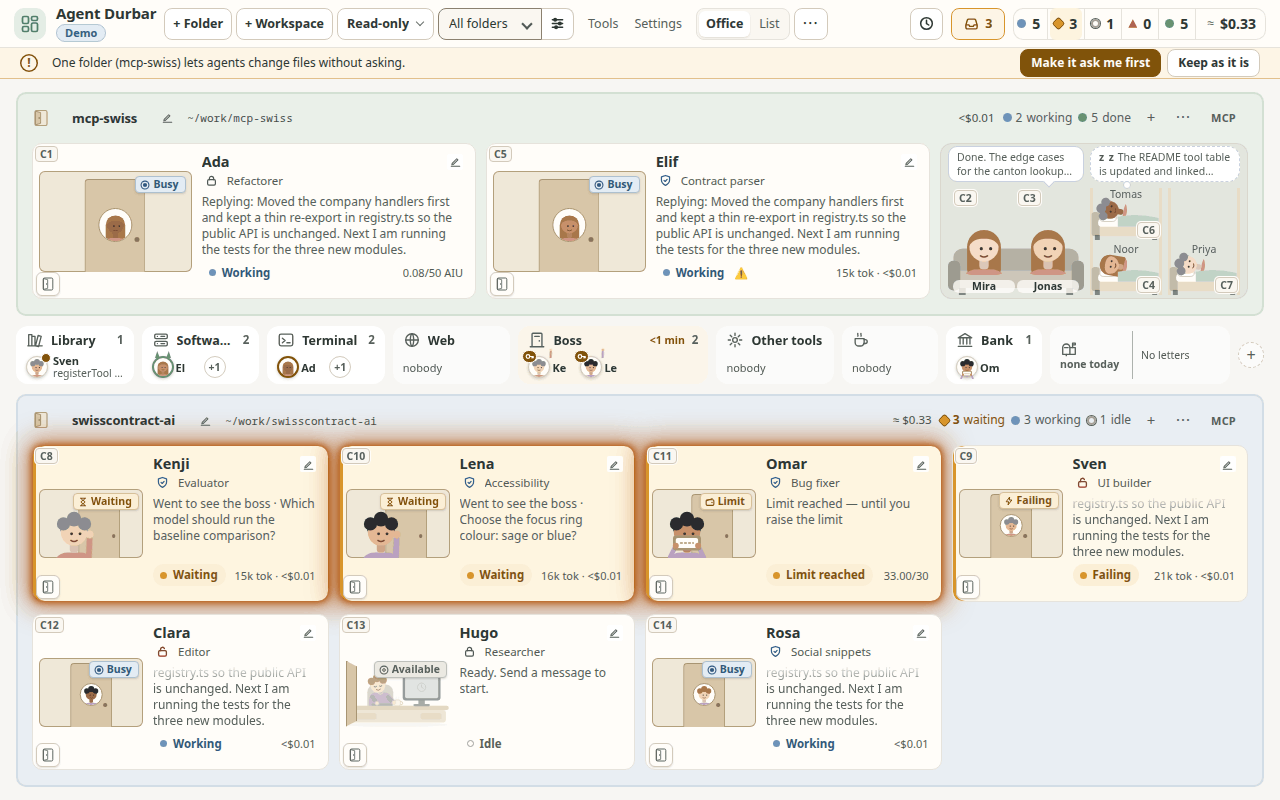
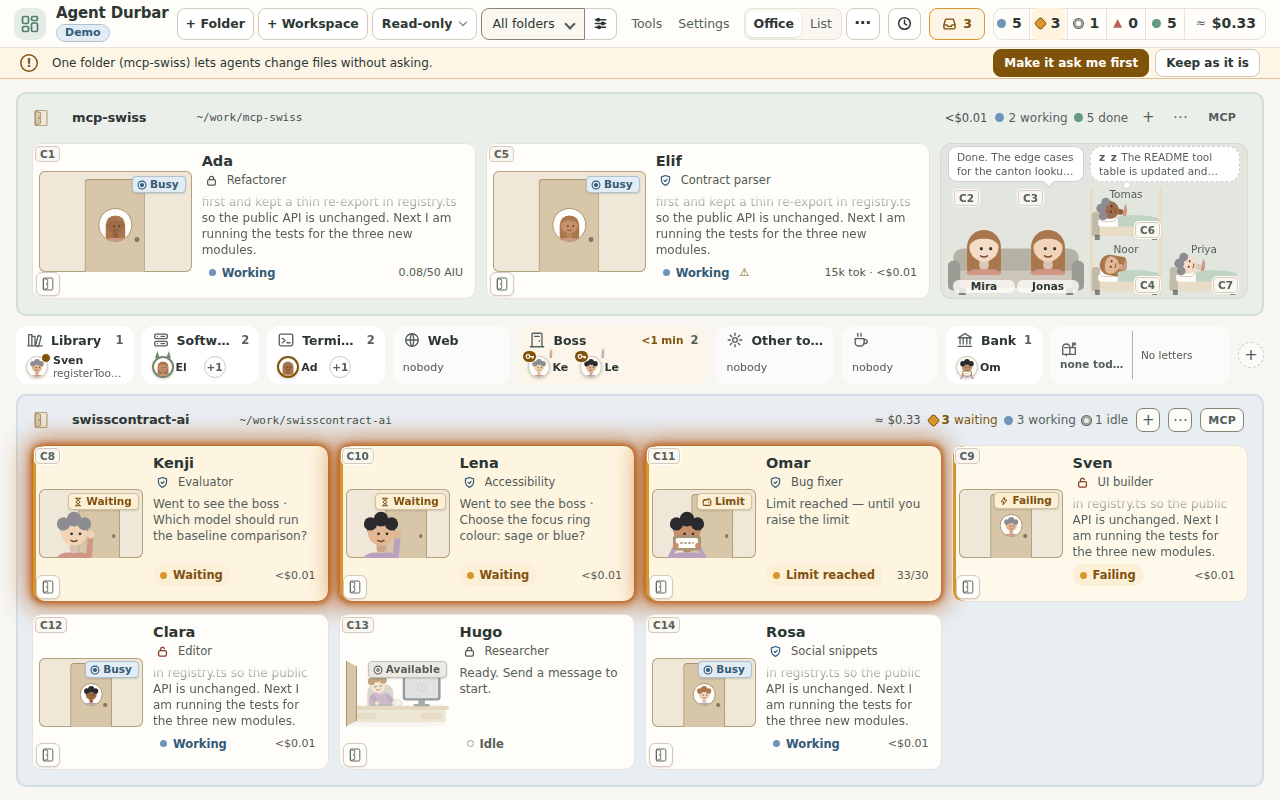
077: a sleeping crew character in the bed slot reads like the couch seat (issue #871)

diff --git a/scripts/check-crew.js b/scripts/check-crew.js
@@ -86,6 +86,17 @@ function faces() {
   return out;
 }
 
+/* issue 871 (FR-071), in the page: every sleeper in a nap bed with the boxes its parts must keep */
+function sleepers() {
+  const r = (e) => { if (!e) return null; const b = e.getBoundingClientRect(); return [b.x, b.y, b.x + b.width, b.y + b.height]; };
+  return [...document.querySelectorAll('#stage .lounge .desk.rest-old')].filter((d) => d.getClientRects().length).map((d) => {
+    const av = d.querySelector('.lg-av'), svg = av && av.querySelector('svg'), im = svg && svg.querySelector('image');
+    return { id: d.dataset.id, crew: d.classList.contains('crew-bed'), lying: !!(av && av.classList.contains('lying')), href: im ? im.getAttribute('href') : '', vb: svg ? (svg.getAttribute('viewBox') || '').split(/\s+/).map(Number) : [],
+      svg: r(svg), av: r(av), slot: r(d), bed: r(d.querySelector('.lg-bed')), name: r(d.querySelector('.lg-name')), chat: r(d.querySelector('.chatno')), lounge: r(d.closest('.lounge')), solo: !!d.closest('.lg-bunk.solo'),
+      ztop: +getComputedStyle(d.querySelector('.lg-blanket')).zIndex, zav: +getComputedStyle(av).zIndex || 0 };
+  });
+}
+
 /* FR-061, in the page: the opacity a node really shows at is its own times its ancestors' */
 function idleOpacity() {
   const eff = (e) => { let o = 1; for (; e && e.nodeType === 1; e = e.parentElement) o *= +getComputedStyle(e).opacity; return o; };
@@ -293,6 +304,51 @@ module.exports = async (ctx) => {
     console.log('[crew] 1920x1080 grown desks: largest shown width', Math.round(biggest), 'px, natural', C.BOX.w * C.PX_PER_UNIT);
     for (const im of imgs) sharpOk('1920x1080 grown', im, nat[im.href]);
     await ctx.shot(path.join(out, 'crew-office-1920x1080-grown.png'));
+  }
+
+  // issue 871 (FR-071): a sleeping crew character in the bed slot reads like the couch seat, at both sizes. One agent on the couch and a lone sleeper.
+  for (const [w, h] of [[1440, 900], [1280, 800]]) {
+    const tag = `${w}x${h} bed`;
+    await H.load({ w, h, query: { sim: '14', simrooms: '2', simhelpers: '0' }, ready: `document.querySelectorAll('#stage .desk[data-id]').length>=14&&document.getElementById('stage').dataset.fit` });
+    await useCrew();
+    for (const id of ['sim-2', 'sim-3']) {
+      const ev = (e) => H.js(`window.__durbarSimEmit(Object.assign({timestamp:Date.now()},${jsLiteral(Object.assign({ sessionId: id }, e))}))`);
+      await ev({ type: 'status', status: 'working', intent: 'Working' });
+      await ev({ type: 'output', final: true, text: 'Done. The edge cases are listed.' });
+      await ev({ type: 'status', status: 'idle' });
+    }
+    await H.js(`window.__durbarSimUi.readAll()`);
+    // sim-2 finished a moment ago (the couch), sim-3 half an hour ago (a bed)
+    await H.js(`(()=>{for(const [id,min] of [['sim-2',2],['sim-3',30]]){window.__durbarSimUi.agents().find(x=>x.id===id).lastEventAt=Date.now()-min*60000;}window.__durbarSimUi.render();})()`);
+    assert.ok(await H.until(`!!document.querySelector('#stage .lounge .desk.rest-old.crew-bed')&&!!document.querySelector('#stage .lounge .lg-av svg image')`, 6000), `${tag}: a crew sleeper is in a nap bed`);
+    await H.settle();
+    const list = await H.js(`(${sleepers.toString()})()`);
+    const lone = list.filter((x) => x.solo);
+    assert.ok(lone.length >= 1, `${tag}: a lone sleeper (a bunk with one bed) is on screen (${list.length} sleepers)`);
+    for (const x of lone) {
+      const where = `${tag} ${x.id}`, eps = 0.75, inside = (a, b) => a[0] >= b[0] - eps && a[1] >= b[1] - eps && a[2] <= b[2] + eps && a[3] <= b[3] + eps;
+      assert.ok(x.crew && !x.lying && x.href, `${where}: drawn with the crew picture, upright (${JSON.stringify({ crew: x.crew, lying: x.lying, href: x.href })})`);
+      assert.ok(inside(x.av, x.slot) && inside(x.slot, x.lounge), `${where}: the figure ${x.av.map(Math.round)} is inside its bed slot ${x.slot.map(Math.round)} and the lounge ${x.lounge.map(Math.round)}`);
+      // the face is not cut: the face box of the picture, mapped to the screen, is inside the visible figure
+      const m = /crew\/art\/([\w-]+)-(working|waiting|resting)\.webp/.exec(x.href), fb = C.faceBox(m[1], m[2]), [vx, vy, vw, vh] = x.vb, R = x.svg;
+      const sc = Math.min((R[2] - R[0]) / vw, (R[3] - R[1]) / vh), ox = R[0] + ((R[2] - R[0]) - vw * sc) / 2, oy = R[1] + ((R[3] - R[1]) - vh * sc) / 2;
+      const face = [ox + (fb[0] - vx) * sc, oy + (fb[1] - vy) * sc, ox + (fb[0] + fb[2] - vx) * sc, oy + (fb[1] + fb[3] - vy) * sc];
+      assert.ok(inside(face, x.av), `${where}: the face box ${face.map(Math.round)} is inside the visible figure ${x.av.map(Math.round)} (not cut)`);
+      // the name sits under the figure's face (the middle of the figure, like the couch's label), not on top of an empty column
+      assert.ok(x.name[1] >= face[3] - 1.5, `${where}: the name ${x.name.map(Math.round)} is under the face ${face.map(Math.round)}`);
+      assert.ok(x.name[1] >= x.slot[3] - 20 && x.name[3] <= x.slot[3] + eps, `${where}: the name is on the bed's foot line, not in the middle of the column (${x.name.map(Math.round)} in ${x.slot.map(Math.round)})`);
+      // the chat number does not cover the face (a seat of 30 px or less is smaller than the badge itself, as for the couch)
+      if (x.av[2] - x.av[0] >= 30) assert.ok(!hit(face, x.chat), `${where}: the chat number ${x.chat.map(Math.round)} does not cover the face ${face.map(Math.round)}`);
+      assert.ok(x.chat[0] <= x.slot[0] + 6 && x.chat[1] <= x.slot[1] + 6, `${where}: the chat number is on the top-left corner like the couch's (${x.chat.map(Math.round)})`);
+      // the bed is drawn at a sensible size and under the figure
+      assert.ok(x.bed[2] - x.bed[0] >= 60 && x.bed[3] - x.bed[1] >= 26, `${where}: the bed is ${Math.round(x.bed[2] - x.bed[0])}x${Math.round(x.bed[3] - x.bed[1])} px (at least 60x26)`);
+      assert.ok(inside(x.bed, x.slot), `${where}: the bed ${x.bed.map((n) => +n.toFixed(1))} is inside its slot ${x.slot.map((n) => +n.toFixed(1))}`);
+      assert.ok(x.av[3] > x.bed[1] && x.av[1] < x.bed[1], `${where}: the figure rests on the bed (figure ${x.av.map(Math.round)}, bed ${x.bed.map(Math.round)})`);
+      assert.ok(x.ztop > x.zav, `${where}: the blanket is drawn over the figure's lower edge`);
+      console.log(`[crew] ${tag}`, JSON.stringify({ figure: x.av.map(Math.round), bed: x.bed.map(Math.round), name: x.name.map(Math.round) }));
+    }
+    await H.clearToasts();
+    await ctx.shot(path.join(out, `crew-bed-${THEME_ID}-${w}x${h}.png`));
   }
 
   // FR-055: one picture removed from a copy of dist/: its character is drawn as the plain figure, the others keep their pictures

diff --git a/src/renderer/app.js b/src/renderer/app.js
@@ -1103,10 +1103,14 @@ function restHTML(x,i){
   const where=k==='recent'?'resting on the couch':'asleep on a nap bed';
   const lab=`${esc(a.name)}${chatNoWords(a)}${draftWords(a)}, ${esc(who)}, folder ${esc(roomOf(a).path)}, ${where}, ${st==='done'?'finished':'idle after its reply'}${said?' '+esc(said):''}: ${esc(line)}${/[.!?…]$/.test(line)?'':'.'} Open chat panel.`; /* every part escaped here */
   const peek=`<span class="peek" aria-hidden="true"><span class="pk-h"><b>${esc(a.name)}</b><span class="pk-role">${esc(who)}</span></span><span class="pk-st">${signsOn()?(g=>`<span class="dsign-tx" data-sign="${g.key}">${signIcon(g.icon)}${esc(g.word)}</span>`)(signOf(a,true)):SHUT_MARK+esc(stWord(a))}${ago?' · finished '+esc(ago):''} · ${where}</span><span class="pk-tx">${esc(shutReply(a,300))}</span></span>`;
+  const crewBed=k==='old'&&THEME.sceneKit()==='crew'; /* spec 077 FR-071: a sleeping crew character is the couch's head and shoulders, not a turned face */
+  const bedSvg=`<svg class="lg-bed" viewBox="0 0 44 24" preserveAspectRatio="none" aria-hidden="true" focusable="false"><rect class="bd-frame" x="1" y="10" width="42" height="11" rx="3"/><rect class="bd-head" x="1" y="3" width="5" height="18" rx="2"/><rect class="bd-mat" x="5" y="8" width="37" height="6" rx="2.5"/><rect class="bd-pil" x="6" y="5" width="10" height="5" rx="2.5"/><rect class="bd-leg" x="3" y="20" width="3" height="4"/><rect class="bd-leg" x="38" y="20" width="3" height="4"/></svg>`;
   const art=k==='recent'
     ?`<span class="lg-av"${THEME.sceneKit()==='crew'?' style="border-radius:0 0 30% 30%"':''}>${avatar(a,'seat')}</span>`
-    :`<svg class="lg-bed" viewBox="0 0 44 24" preserveAspectRatio="none" aria-hidden="true" focusable="false"><rect class="bd-frame" x="1" y="10" width="42" height="11" rx="3"/><rect class="bd-head" x="1" y="3" width="5" height="18" rx="2"/><rect class="bd-mat" x="5" y="8" width="37" height="6" rx="2.5"/><rect class="bd-pil" x="6" y="5" width="10" height="5" rx="2.5"/><rect class="bd-leg" x="3" y="20" width="3" height="4"/><rect class="bd-leg" x="38" y="20" width="3" height="4"/></svg><span class="lg-av lying">${avatar(a)}</span><svg class="lg-blanket" viewBox="0 0 44 24" preserveAspectRatio="none" aria-hidden="true" focusable="false"><path class="bd-blk" d="M17 6.5q12-3 25 1V14H17z"/></svg>`;
-  return `<button class="desk shut is-${st} rest-${k}${roll}" type="button" data-id="${esc(a.id)}" data-state="${st}" data-rest="${k}" aria-pressed="${ui.selected===a.id}" aria-label="${lab}"><span class="lg-sp">${chatNoHTML(a)}${draftHTML(a)}${art}<span class="name lg-name">${esc(a.name)}</span></span>${peek}</button>`;
+    :(crewBed
+      ?`${bedSvg}<span class="lg-av" style="border-radius:0 0 30% 30%">${avatar(a,'seat')}</span><svg class="lg-blanket" viewBox="0 0 44 24" preserveAspectRatio="none" aria-hidden="true" focusable="false"><path class="bd-blk" d="M3 9.5q20-4 39 0V15H3z"/></svg>`
+      :`${bedSvg}<span class="lg-av lying">${avatar(a)}</span><svg class="lg-blanket" viewBox="0 0 44 24" preserveAspectRatio="none" aria-hidden="true" focusable="false"><path class="bd-blk" d="M17 6.5q12-3 25 1V14H17z"/></svg>`);
+  return `<button class="desk shut is-${st} rest-${k}${crewBed?' crew-bed':''}${roll}" type="button" data-id="${esc(a.id)}" data-state="${st}" data-rest="${k}" aria-pressed="${ui.selected===a.id}" aria-label="${lab}"><span class="lg-sp">${chatNoHTML(a)}${draftHTML(a)}${art}<span class="name lg-name">${esc(a.name)}</span></span>${peek}</button>`;
 }
 /* FR-053: a room's resting agents, their couches and beds, and the corner's width (DurbarShutters.width, counted by the layout) */
 function shutGroup(r,rolled){
@@ -1140,7 +1144,7 @@ function shuttersHTML(r,rolled){
   const say=bubbleHTML('say',g.recent,g.sayW,seatX,x=>shutReply(x.a,160),'');
   const dream=bubbleHTML('dream',all,g.dreamW,i=>bedX(i),x=>shutReply(x.a,160),dreams);
   /* bunks: two beds to a column (the lower bunk first) */
-  const bunks=[];for(let i=0;i<g.shown.length;i+=2)bunks.push(`<span class="lg-bunk">${g.shown.slice(i,i+2).map(restHTML).join('')}</span>`);
+  const bunks=[];for(let i=0;i<g.shown.length;i+=2)bunks.push(`<span class="lg-bunk${i+1>=g.shown.length?' solo':''}">${g.shown.slice(i,i+2).map(restHTML).join('')}</span>`);
   const beds=bunks.join('')+(g.hidden.length?`<button class="more shut-more" type="button" data-more="${esc(g.key)}" aria-expanded="false" aria-label="Show ${g.hidden.length} more finished agents asleep in ${esc(r.name)}" title="${g.hidden.length} more asleep">+${g.hidden.length} asleep</button>`:'')+(g.fewer?`<button class="more shut-more fewer" type="button" data-more="${esc(g.key)}" aria-expanded="true" aria-label="Show fewer finished agents in ${esc(r.name)}">Fewer</button>`:'');
   const n=g.recent.length+g.old.length;
   return `<div class="lounge" data-key="${esc(g.key)}" style="--shw:${g.w}px" role="group" aria-label="${n} finished agent${n>1?'s':''} resting in ${esc(r.name)}"><div class="lg-bubs">${say}${g.couchW&&g.bedW?'<span class="lg-gap"></span>':''}${dream}</div><div class="lg-in">${couches?`<span class="lg-couches" style="flex-basis:${g.couchW}px">${couches}</span>`:''}${beds?`<span class="lg-beds" style="flex-basis:${g.bedW}px">${beds}</span>`:''}</div></div>`;

diff --git a/src/renderer/styles.css b/src/renderer/styles.css
@@ -2049,6 +2049,14 @@ body.simple #ctxMenu #compactBtn{display:flex!important} /* spec 005 FR-041: Tid
 /* issue 576: a sleeper's name is on the top line, where the chat number sits on the couch: the number goes to the bed's foot corner, beside the lying character, so the name stays whole */
 .stage .desk.shut.rest-old .chatno{left:auto;top:auto;right:2px;bottom:2px}
 .desk.shut.rest-old .lg-name{top:0;bottom:auto;background:transparent;font-weight:500;color:var(--ink-2)}
+/* spec 077 FR-071: a one-bed bunk has no posts; with Cheeky its slot is the whole column and the sleeper is the couch's head and shoulders (the same crop and size rule), the blanket over its lower edge, the name under it, the chat number on its top-left corner */
+.lg-bunk.solo{background:none}
+.stage .lg-bunk.solo>.desk.shut.crew-bed{flex:1 1 0;min-height:0}
+.desk.shut.crew-bed .lg-bed,.desk.shut.crew-bed .lg-blanket{height:min(45%,44px)}
+.desk.shut.rest-old.crew-bed .lg-av{position:absolute;left:50%;bottom:calc(min(45%,44px) * .42);height:min(56px,calc(100% - min(45%,44px) * .42 - 2px));aspect-ratio:1;transform:translateX(-50%);border-radius:50% 50% 30% 30%;overflow:hidden}
+.stage .desk.shut.rest-old.crew-bed .chatno{left:2px;top:2px;right:auto;bottom:auto}
+.desk.shut.rest-old.crew-bed .lg-name{top:auto;bottom:2px;background:color-mix(in srgb,var(--surface) 78%,transparent);font-weight:600;color:var(--ink)}
+@container lounge (max-height:99px){.desk.shut.rest-old.crew-bed .lg-av{bottom:13px;height:calc(100% - 13px)}}
 .lg-beds>.shut-more{width:52px;height:auto;padding:0 2px;font-size:10.5px;line-height:13px;flex:none;border-radius:10px;white-space:normal}
 /* the peek card: beside the lounge (left, or right when measured too close to the room's edge), never moving anything */
 .desk.shut .peek{display:none;position:absolute;right:calc(100% + 6px);top:0;z-index:30;width:300px;flex-direction:column;gap:3px;padding:8px 10px;border-radius:10px;

diff --git a/specs/077-cheeky-crew/spec.md b/specs/077-cheeky-crew/spec.md
@@ -246,7 +246,7 @@ The issue says *The theme's own* is "Minimalist in the normal themes; Pixel and 
 
 **Owner answer (Paco, 2026-10-28, in the terminal with his agent): (a).** *The theme's own* is the kit each theme names, so Corporate keeps its suits and nobody on the default sees a change. This is what is built.
 
-- 2026-10-29 (issue #871, owner Paco): **FR-071** **A sleeping crew character in a nap bed reads like the couch seat.** With Characters = Cheeky, a character in a bed slot was the round face crop turned 80 degrees at the bottom left of a tall bunk column (two posts, a bed 34 px high, the name floating at the top, the chat number over the bed's foot). Now (1) it is the **same head-and-shoulders crop as a couch seat** (`avatar(a, 'seat')`, FR-060), upright on the pillow, with the blanket drawn over its lower edge, never rotated or cut; (2) the **name sits under the figure and the chat number on its top-left corner, as on the couch** (the issue 576 rule, name on top and number at the foot, stays for the other kits, whose figure lies down); (3) a bunk that holds **one bed** (a lone or odd sleeper) has **no posts** and its bed slot takes the whole column height, so the bed is drawn at a sensible size (up to 44 px high, 72 px wide) and the figure as large as the couch's; two beds in one column still split it in half. Bed slots of other kits keep their drawing; a lone bed there loses its posts. `[KNOWN GAP]` two stacked sleepers at 1280x800 each get a slot about 29 px high: the head and shoulders shrink to what fits (about 16 px), as the couch seats do in a short row (the badge check is skipped below 30 px). *Check:* `check:crew` lounge step at 1440x900 and 1280x800 (a lone sleeper with a couch next to it): the figure inside the bed slot and the lounge, the face box not clipped, the name under the figure, the chip clear of the face, the bed at least 28 px high.
+- 2026-10-29 (issue #871, owner Paco): **FR-071** `[IMPLEMENTED]` **A sleeping crew character in a nap bed reads like the couch seat.** With Characters = Cheeky, a character in a bed slot was the round face crop turned 80 degrees at the bottom left of a tall bunk column (two posts, a bed 34 px high, the name floating at the top, the chat number over the bed's foot). Now (1) it is the **same head-and-shoulders crop as a couch seat** (`avatar(a, 'seat')`, FR-060), upright on the pillow, with the blanket drawn over its lower edge, never rotated or cut; (2) the **name sits under the figure and the chat number on its top-left corner, as on the couch** (the issue 576 rule, name on top and number at the foot, stays for the other kits, whose figure lies down); (3) a bunk that holds **one bed** (a lone or odd sleeper) has **no posts** and its bed slot takes the whole column height, so the bed is drawn at a sensible size (up to 44 px high, 72 px wide) and the figure as large as the couch's; two beds in one column still split it in half. Bed slots of other kits keep their drawing; a lone bed there loses its posts. `[KNOWN GAP]` two stacked sleepers at 1280x800 each get a slot about 29 px high: the head and shoulders shrink to what fits (about 16 px), as the couch seats do in a short row (the badge check is skipped below 30 px). *Check:* `check:crew` lounge step at 1440x900 and 1280x800 (a lone sleeper with a couch next to it): the figure inside the bed slot and the lounge, the face box not clipped, the name under the figure, the chip clear of the face, the bed at least 26 px high.
 
 ## Owner answers (Paco, 2026-10-23)
 

diff --git a/specs/077-cheeky-crew/tasks.md b/specs/077-cheeky-crew/tasks.md
@@ -89,4 +89,4 @@ Q2-Q8 are answered; **Q1 (art format) is open again** (2026-10-23). Tasks are ma
 
 ## A sleeping crew character in the bed slot (delta 2026-10-29, issue #871; FR-071)
 
-- [ ] T084 Spec delta FR-071; `app.js` (`restHTML`: the seat crop and a crew blanket for a crew sleeper; `lg-bunk solo` for a one-bed column) and `styles.css` (the crew bed slot: figure, name under it, chip top-left; a solo bunk without posts and at full height); `check:crew` lounge step at both sizes; changelog fragment; linked lounge screenshots retaken [FR-071]
+- [x] T084 Spec delta FR-071; `app.js` (`restHTML`: the seat crop and a crew blanket for a crew sleeper; `lg-bunk solo` for a one-bed column) and `styles.css` (the crew bed slot: figure, name under it, chip top-left; a solo bunk without posts and at full height); `check:crew` lounge step at both sizes; changelog fragment; linked lounge screenshots retaken [FR-071]

diff --git a/changelog.d/077-crew-bed-slot.md b/changelog.d/077-crew-bed-slot.md
@@ -1,0 +1,1 @@
+- **A sleeping Cheeky character in a nap bed reads like the couch seat** (spec 077 FR-071, issue #871): with Characters = Cheeky, the character in a bed is now the same head and shoulders as on the couch, upright on the pillow with the blanket over its lower edge, its name under it and its chat number on the top-left corner. A bunk with one bed has no posts and uses the whole column, so the bed is drawn at a sensible size. Other characters' beds only lose the posts of a one-bed column. Checked on the simulator at 1440x900 and 1280x800 (`check:crew`); two sleepers stacked at 1280x800 stay small (known gap).
